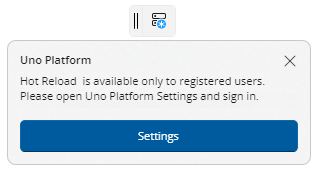
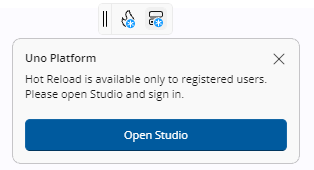
chore: Update docs and images

diff --git a/doc/articles/features/working-with-xaml-hot-reload.md b/doc/articles/features/working-with-xaml-hot-reload.md
@@ -331,7 +331,7 @@ Hot Reload displays a visual indicator to help you further monitor changes while
 To start using the **Hot Reload indicator** using the **latest stable 5.5 Uno.Sdk version or higher**, ensure you are signed in with your Uno Platform account. Follow [these instructions](xref:Uno.GetStarted.Licensing) to register and sign in.
 
 <p align="center">
-  <img src="~/articles/Assets/features/hotreload/indicator-not-connected-with-flyout.png" alt="The Hot Reload indicator is not connected. A flyout message states that Hot Reload is available only to registered users and prompts the user to sign in via the Studio... button." />
+  <img src="~/articles/Assets/features/hotreload/indicator-not-connected-with-flyout.png" alt="The Hot Reload indicator is not connected. A flyout message states that Hot Reload is available only to registered users and prompts the user to sign in via the Uno Platform Studio button." />
 </p>
 
 For existing applications, take this opportunity to update to the [latest **Uno.Sdk** version](https://www.nuget.org/packages/Uno.Sdk/latest) to take advantage of all the latest improvements and support. Refer to our [migration guide](xref:Uno.Development.MigratingFromPreviousReleases) for upgrade steps.
